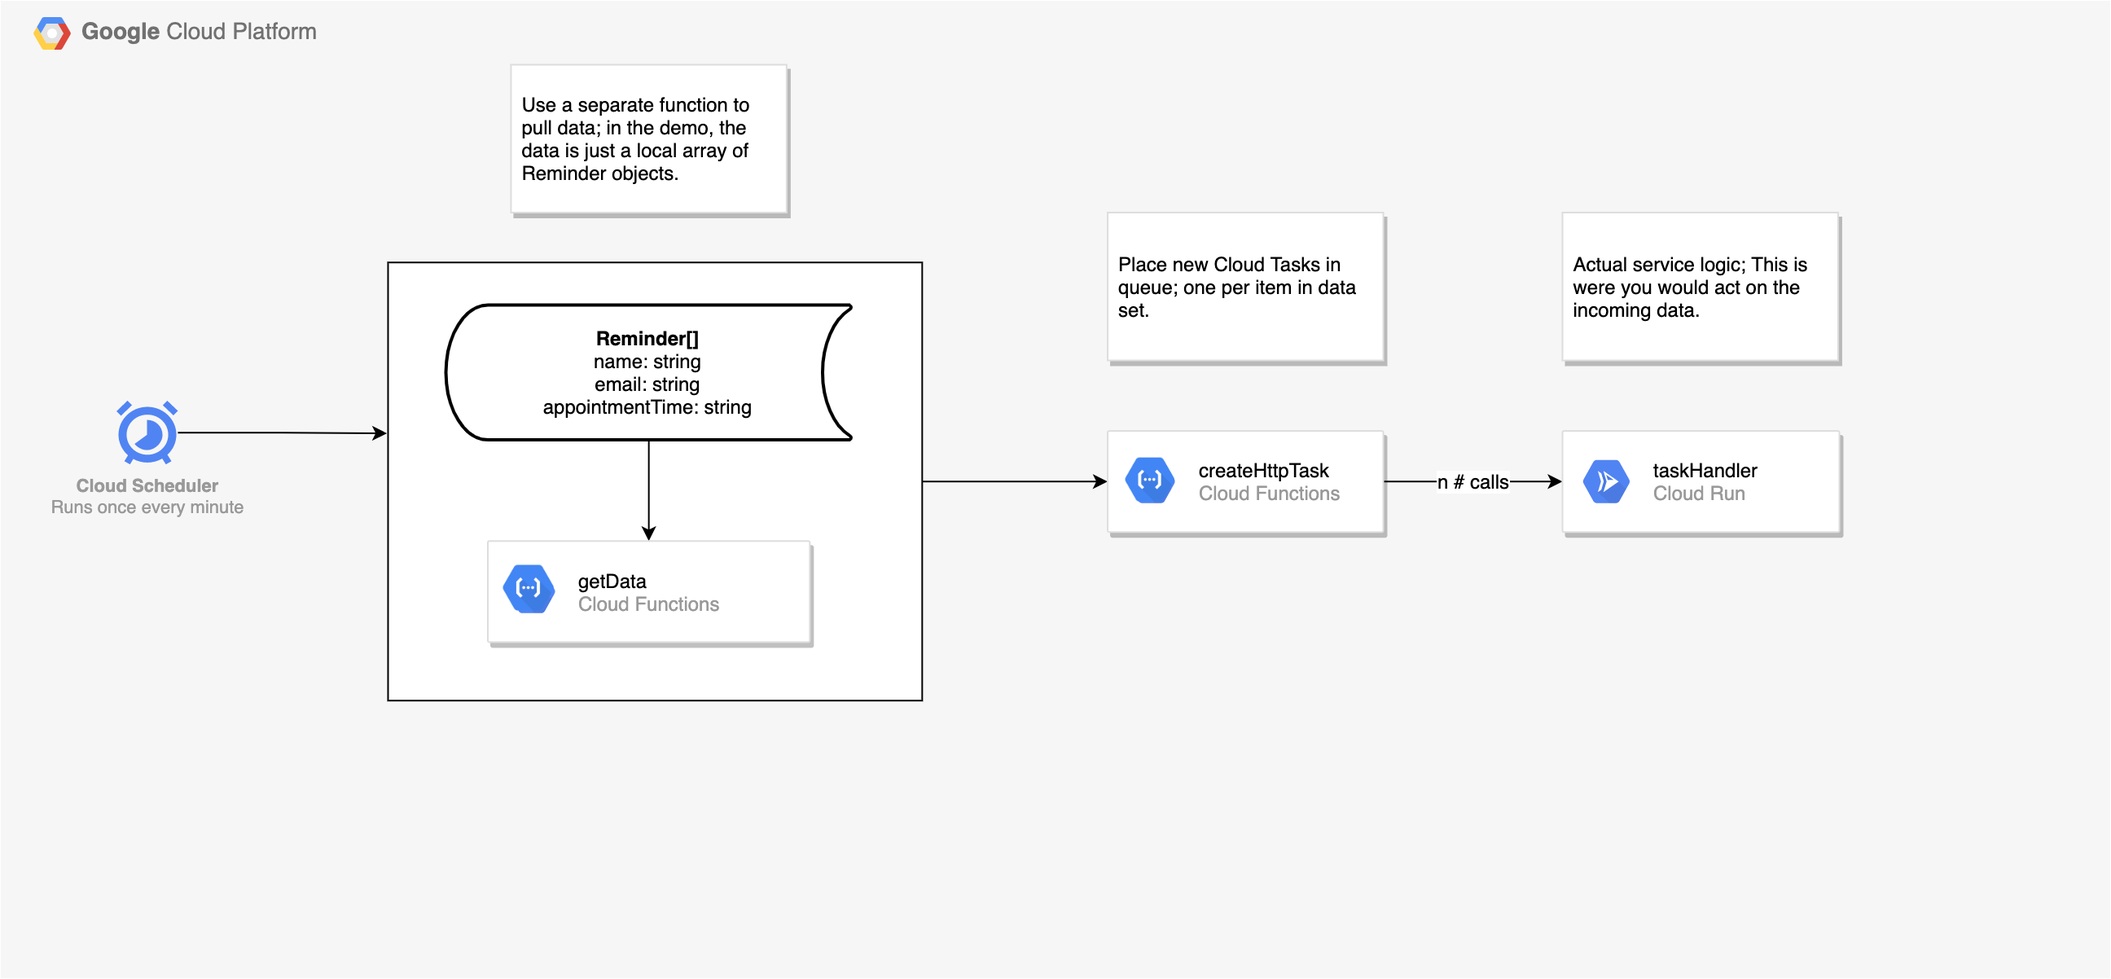
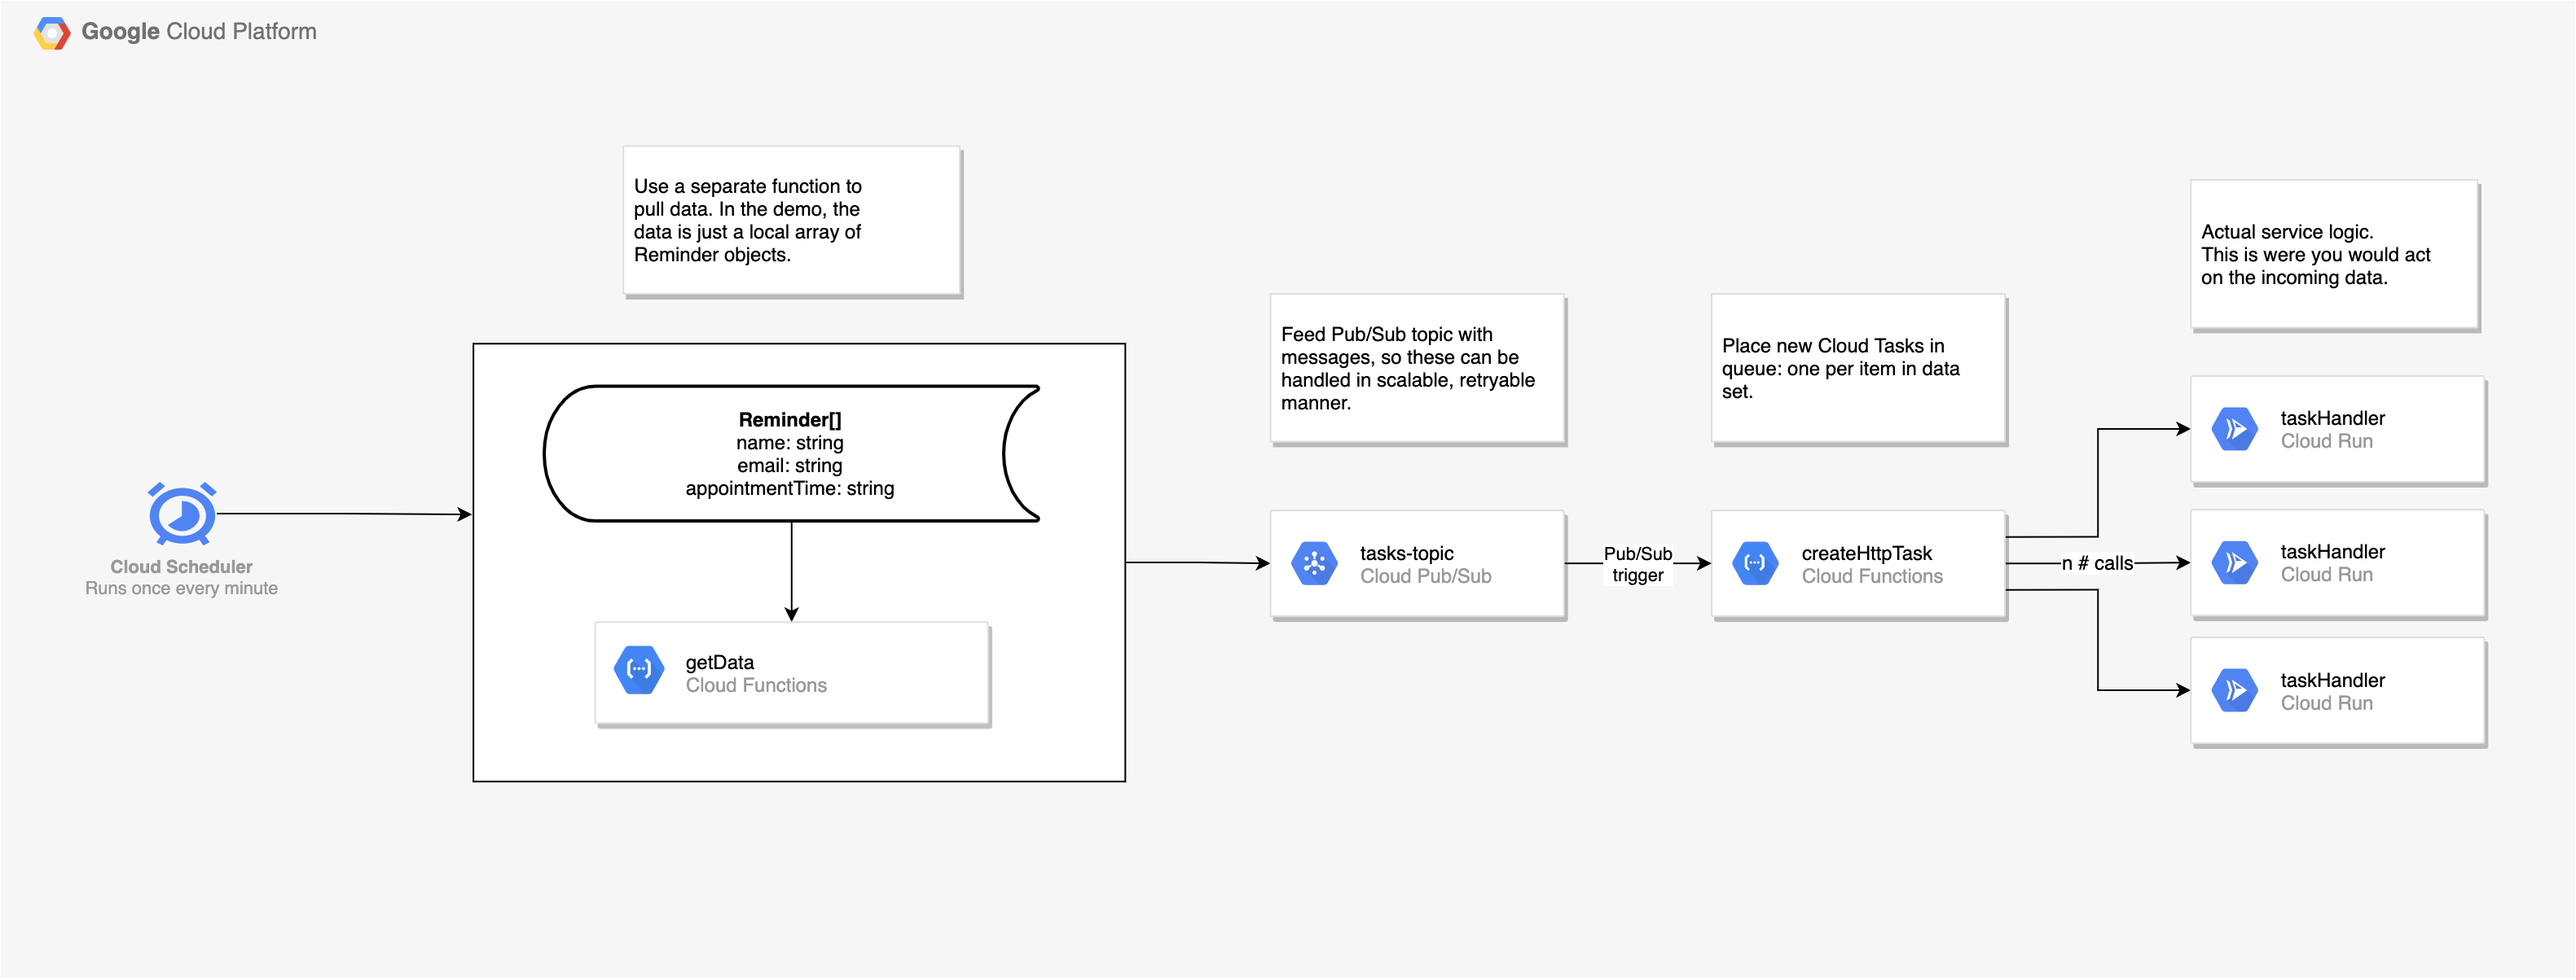
Update

diff --git a/get-data/index.js b/get-data/index.js
@@ -1,6 +1,7 @@
-const fetch = require('node-fetch');
+const { PubSub } = require('@google-cloud/pubsub');
 
-const endpoint = process.env.TASK_ENDPOINT || 'your-create-http-task-function-endpoint';
+const PROJECT_ID = process.env.PROJECT_ID || 'your-project-id';
+const TOPIC_ID = process.env.TOPIC_ID || 'my-topic';
 
 const demoData = [
   {
@@ -32,22 +33,20 @@ const demoData = [
 
 /**
  * @description This function is fired by Cloud Scheduler. It simply fetches and returns a small set of data.
+ * It then offloads the data processing to Pub/Sub, which in turn will fire a function to slice data into a task queue.
  */
 exports.getData = async (req, res) => {
   console.log('Getting data and sending it along...');
 
-  const options = {
-    method: 'POST',
-    body: JSON.stringify(demoData),
-    headers: {
-      'Content-Type': 'application/json'
-    }
-  };
+  const pubSubClient = new PubSub({ projectId: PROJECT_ID });
+  const dataBuffer = Buffer.from(JSON.stringify(demoData));
 
-  // Offload data to task queue
-  // TODO: Doing it this way requires (?) that the endpoint is public, at least I am not sure how to make it private and actually have it working...
-  // --> It seems our service account is not being used as a caller?
-  await fetch(endpoint, options)
-    .then(() => res.status(200).send(demoData))
-    .catch(() => res.status(400).send('An error occured!'));
+  try {
+    const messageId = await pubSubClient.topic(TOPIC_ID).publish(dataBuffer);
+    console.log(`Message ${messageId} published.`);
+    res.status(200).send(demoData);
+  } catch (error) {
+    console.error(`Received error while publishing: ${error.message}`);
+    res.status(400).send('An error occured!');
+  }
 };

diff --git a/create-http-task/index.js b/create-http-task/index.js
@@ -7,7 +7,7 @@ const QUEUE_ID = process.env.QUEUE_ID || 'your-queue-id';
 const REGION = process.env.REGION || 'europe-west1';
 const URL = process.env.TASK_URL || 'your-cloud-run-task-handler-endpoint'; // Task handler endpoint
 const SERVICE_ACCOUNT_EMAIL =
-  `${process.env.HTTP_TASK_SA}@${PROJECT_ID}.iam.gserviceaccount.com` ||
+  `${process.env.SERVICE_ACCOUNT_NAME}@${PROJECT_ID}.iam.gserviceaccount.com` ||
   `sa-create-http-task@${PROJECT_ID}.iam.gserviceaccount.com`;
 const PARENT = client.queuePath(PROJECT_ID, REGION, QUEUE_ID);
 const WAIT_FOR_SECONDS = 0;
@@ -15,8 +15,9 @@ const WAIT_FOR_SECONDS = 0;
 /**
  * @description This function creates a set of tasks of the incoming data (data pulled with Cloud Scheduler).
  */
-exports.createHttpTask = async (req, res) => {
-  const payload = typeof req.body === 'string' ? JSON.parse(req.body) : req.body;
+exports.createHttpTask = async (message, context) => {
+  const _data = Buffer.from(message.data, 'base64').toString();
+  const payload = typeof _data === 'string' ? JSON.parse(_data) : _data;
 
   try {
     if (payload && payload.length > 0) {
@@ -58,8 +59,8 @@ exports.createHttpTask = async (req, res) => {
       await Promise.all(createTasks);
     }
 
-    res.send(`Done`);
+    console.log('Done');
   } catch (error) {
-    res.status(400).send(`An error occurred: ${error}`);
+    console.error(error);
   }
 };

diff --git a/README.md b/README.md
@@ -2,10 +2,10 @@
 
 This repo demonstrates how to:
 
-- Set up a **scheduled activity (using Cloud Scheduler)** that pulls data (an array of objects) from local data in a **Cloud Function**,
-- Divide the retrieved data in **Cloud Tasks** (done in a separate Cloud Function), to create individual tasks per data object,
+- Set up a **scheduled activity (using Cloud Scheduler)** that pulls data (an array of objects) from local data in a **Cloud Function** that offloads the data to **Pub/Sub**...
+- Which in turn has a Cloud Function trigger on a topic, that divides the retrieved data into **Cloud Tasks**, so that the individual pieces of data are handled uniquely, then...
 - Run a service on **Cloud Run** to do something with the data from each individual task.
-- Bonus: Creating and using separate service accounts for each service.
+- Bonus: Creating and using separate service accounts for each service and using a completely private setup.
 
 ![GCP architecture map](docs/gcp.png)
 ![GCP logging output](docs/logging.png)
